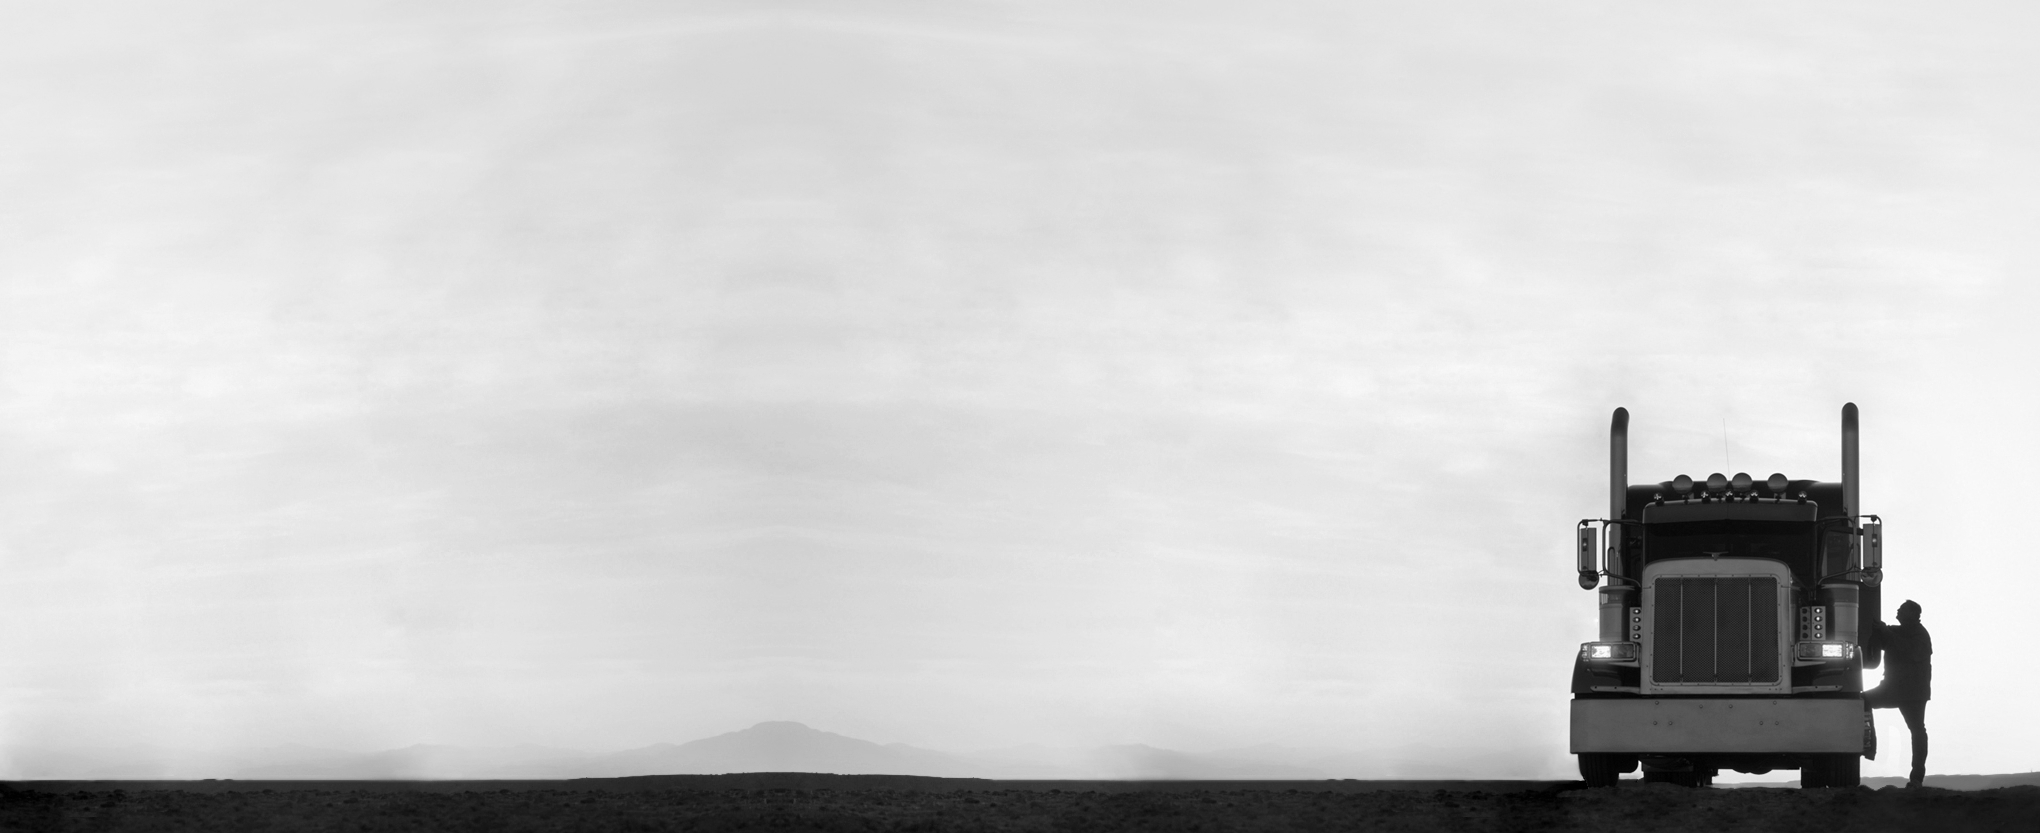
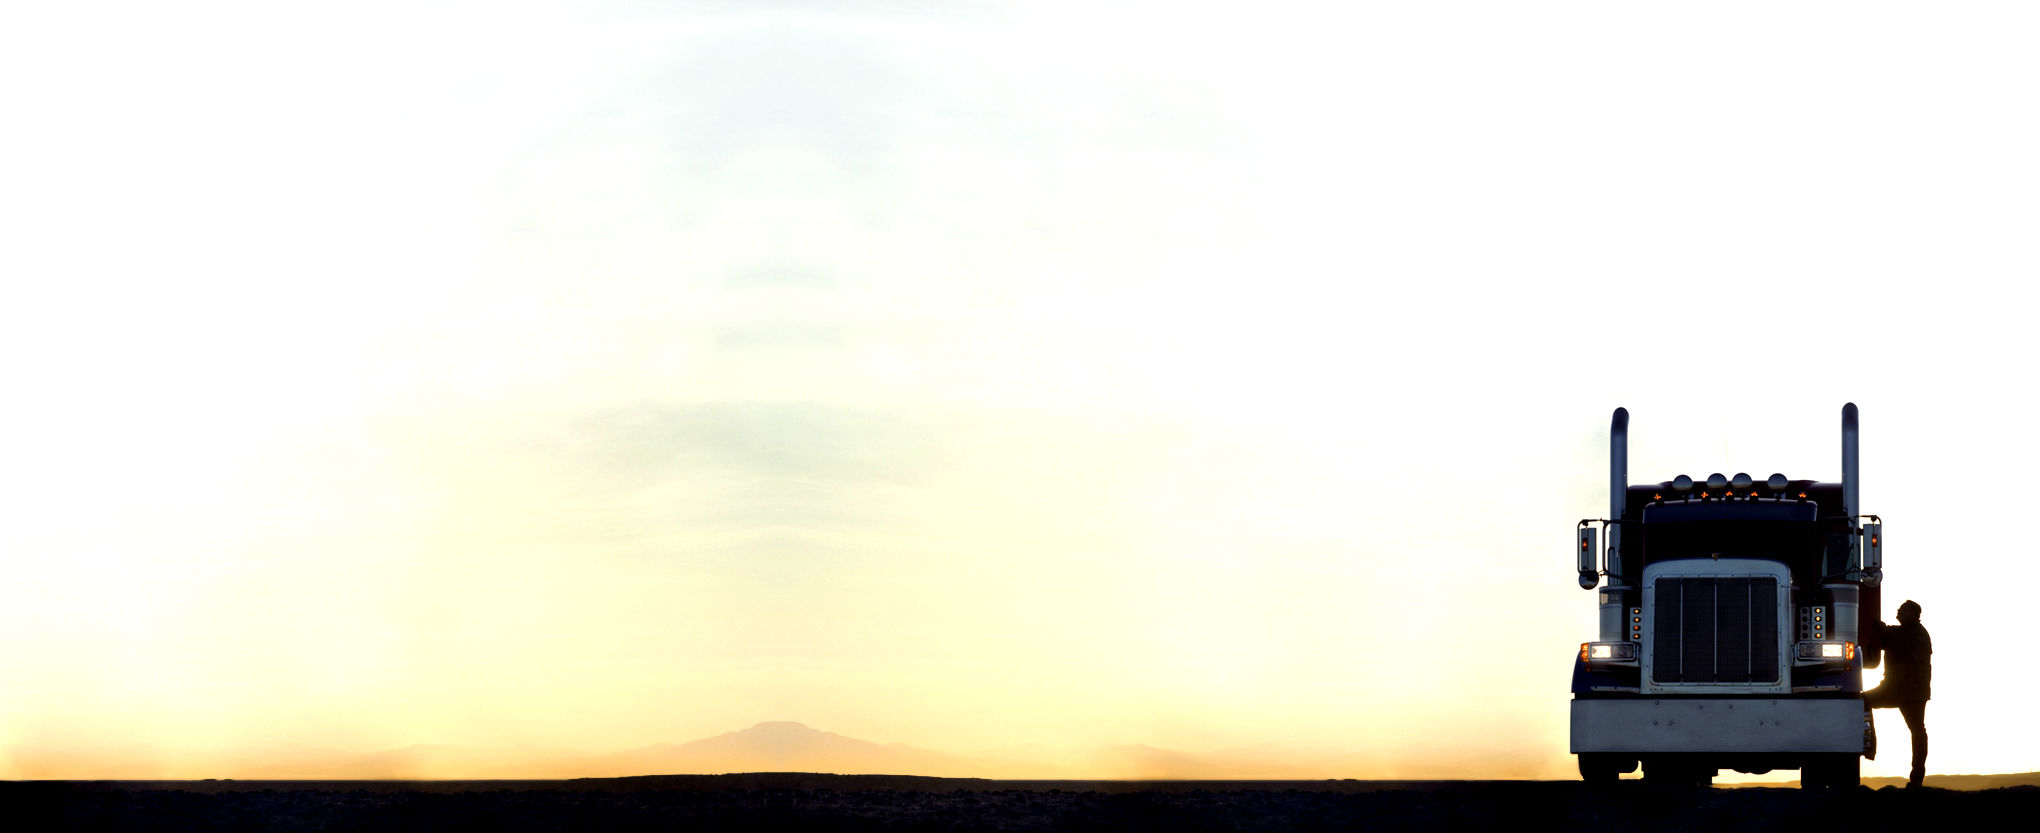
Before to Long

diff --git a/FASTPORT Marketing/carriers.html b/FASTPORT Marketing/carriers.html
@@ -31,9 +31,9 @@
             <!-- Collect the nav links, forms, and other content for toggling -->
             <div class="collapse navbar-collapse navbar-right navbar-ex1-collapse">
                 <ul class="nav navbar-nav">
-                    <li class="active"><a href="index.html">Truckers</a>
+                    <li><a href="index.html">Truckers</a>
                     </li>
-                    <li><a href="carriers.html">Carriers</a>
+                    <li class="active"><a href="carriers.html">Carriers</a>
                     </li>
                     <li><a href="https://app.fastport.com/Boards/jobmap.aspx">Jobs</a>
                     </li>
@@ -49,7 +49,7 @@
         </div>
         <!-- /.container -->
     </nav>
-    <div class="intro-header">
+    <div class="intro-header_crr">
         <div class="container">
             <div class="row">
                 <div class="col-lg-12">
@@ -58,14 +58,12 @@
                             FASTPORT's JobMaps&trade;
                         </h2>
                     </div>
-                    <p class="lead" style="color: Gray; text-align: left;">
-                        The right trucking job for you means more money, more home time, and more opportunity.
-                        FASTPORT's JobMaps&trade; is an entirely new way to match truckers to the right job, a
-                        difference that could mean $1,000,000 more over your career.
+                    <p class="lead" style="color: White; text-align: left;">
+                        Grow your fleet by attracting the right truckers. 
+                        The right trucker lives close to your freight lanes, meets your qualifications, and will stay for the long haul. 
+                        FASTPORT's JobMaps&trade; helps you find the right truckers and hire them quickly.
                     </p>
                     <ul class="list-inline intro-social-buttons">
-                        <li><a href="#jobs" class="btn btn-default btn-lg"><i class="fa fa-search fa-fw">
-                        </i><span class="network-name">SEARCH JobMaps&trade;</span></a></li>
                         <li><a href="#signupin" class="btn btn-default btn-lg">
                             <i class="fa fa-list-alt fa-fw"></i><span class="network-name">CREATE Account</span></a>
                         </li>
@@ -83,16 +81,16 @@
                     <div class="clearfix">
                     </div>
                     <h2 class="section-heading">
-                        What are JobMaps&trade;?</h2>
+                        What is JobMaps&trade; for Carriers?</h2>
                     <p class="lead">
-                        Searching for a trucking job with traditional classified job listings stinks. They
-                        are too hard to read, too hard to search, and too hard to compare. The perfect job
-                        for you could pass right by your front door and you'd never know.
+                        Traditional classified job listings stink for trucking. 
+                        No one can read thousands of poorly drafted, stale, puffing-filled postings to find the one position that fits them. 
+                        The experience is so disheartening that it chases good candidates away from trucking.
                     </p>
                 </div>
                 <div class="col-lg-5 col-lg-offset-2 col-sm-6">
                     <center>
-                        <img class="img-responsive" src="img/trk_02_jobmap.png" alt="" style="max-width: 350px;" />
+                        <img class="img-responsive" src="img/crr_02_jobmap.png" alt="" style="max-width: 350px;" />
                     </center>
                 </div>
             </div>
@@ -107,16 +105,15 @@
                     <div class="clearfix">
                     </div>
                     <h2 class="section-heading">
-                        Start by Searching</h2>
+                        Create Your JobMaps&trade;</h2>
                     <p class="lead">
-                        The first thing to do when you hit the JobMaps&trade; page is to enter your hometown and
-                        a little about you. Our map will then zoom to your location and drop map pins for
-                        JobMaps&trade; that fit you best. Even better, our system will also show JobMaps&trade; that
-                        pass right by you.</p>
+                        The first step is to create your JobMaps&trade;. 
+                        Enter your company information, your job benefits, and your requirements once. 
+                        Then draw your JobMap with just a few clicks.</p>
                 </div>
                 <div class="col-lg-5 col-sm-pull-6  col-sm-6">
                     <center>
-                        <img class="img-responsive" src="img/trk_04_search.png" alt="" style="max-width: 200px;" />
+                        <img class="img-responsive" src="img/crr_03_enterjob.png" alt="" style="max-width: 350px;" />
                     </center>
                 </div>
             </div>
@@ -131,15 +128,14 @@
                     <div class="clearfix">
                     </div>
                     <h2 class="section-heading">
-                        Easy to Read</h2>
+                        Upgrade Your JobMaps&trade;</h2>
                     <p class="lead">
-                        Since JobMaps&trade; is a "picture," you can tell which positions that look most interesting
-                        in just a glance. Also, the details of each JobMap are laid out exactly the same,
-                        so they are easy to read and easy to compare.</p>
+                        If you want your JobMaps&trade; to really stand-out, create a Custom Pin and distinguish your company from the standard pins on the map. 
+                        Or, you can also upload your logo to show right on your JobMaps&trade;.</p>
                 </div>
                 <div class="col-lg-5 col-lg-offset-2 col-sm-6">
                     <center>
-                        <img class="img-responsive" src="img/trk_06_read.png" alt="" style="max-width: 350px;" />
+                        <img class="img-responsive" src="img/crr_04_zoom.png" alt="" style="max-width: 350px;" />
                     </center>
                 </div>
             </div>
@@ -154,15 +150,15 @@
                     <div class="clearfix">
                     </div>
                     <h2 class="section-heading">
-                        Improve Your Results</h2>
+                        JobMaps&trade; on Your Website</h2>
                     <p class="lead">
-                        As you browse JobMaps&trade;, be sure the "thumbs-up" things you like, and to "check-off"
-                        requirements you satisfy (or not). We then use your feedback to show you even closer
-                        fits.</p>
+                        If you are really interested in looking awesome, you can place your JobMaps&trade; on your own company website. 
+                        With just one simple line of code, a trucker can browse every one of your current postings, and no one elses, increasing your chance to attract that right trucker. 
+                        If you are unhappy with your current website, we can even create one for you.</p>
                 </div>
                 <div class="col-lg-5 col-sm-pull-6  col-sm-6">
                     <center>
-                        <img class="img-responsive" src="img/trk_07_improve.png" alt="" style="max-width: 200px;" />
+                        <img class="img-responsive" src="img/crr_05_website.png" alt="" style="max-width: 350px;" />
                     </center>
                 </div>
             </div>
@@ -177,16 +173,18 @@
                     <div class="clearfix">
                     </div>
                     <h2 class="section-heading">
-                        Mark Favorite and Hide</h2>
+                        JobMaps&trade; Everywhere</h2>
                     <p class="lead">
-                        Better yet, mark the carriers and jobs you like best as "favorites" to save for
-                        later, and hide the carriers and jobs that do not interest you. All this allows
-                        you to get closer and closer to your best fit.
+                        To get even more exposure, you can send your JobMaps&trade; to other sites. 
+                        Do you like recruiting military veterans?  One click sends your postings to the U.S. 
+                        Chamber of Commerce's Hiring Our Heroes program, who use JobMaps&trade; as their posting technology. 
+                        Have you had good luck on Craigslist?  One click sends your jobs there. 
+                        Click here for a list of our favorite partner sites.
                     </p>
                 </div>
                 <div class="col-lg-5 col-lg-offset-2 col-sm-6">
                     <center>
-                        <img class="img-responsive" src="img/trk_08_favorite.png" alt="" style="max-width: 200px;" />
+                        <img class="img-responsive" src="img/crr_06_sites.png" alt="" style="max-width: 350px;" />
                     </center>
                 </div>
             </div>
@@ -201,16 +199,16 @@
                     <div class="clearfix">
                     </div>
                     <h2 class="section-heading">
-                        Read Reviews</h2>
+                        Manage JobMaps&trade; Leads</h2>
                     <p class="lead">
-                        When you get close to that perfect job, be sure to read reviews from past and current
-                        truckers to see their experiences to help you determine which carrier is right for
-                        you.
+                        When truckers find your job that is perfect for them, they can contact you in just a couple clicks. 
+                        That puts each recruit in the JobMaps&trade; funnel. Our funnel tracks your recruits process from the initial inquiry, 
+                        to the job offer, and through the application and onboarding process.
                     </p>
                 </div>
                 <div class="col-lg-5 col-sm-pull-6  col-sm-6">
                     <center>
-                        <img class="img-responsive" src="img/trk_06_read.png" alt="" style="max-width: 350px;" />
+                        <img class="img-responsive" src="img/crr_07_pipeline.png" alt="" style="max-width: 350px;" />
                     </center>
                 </div>
             </div>
@@ -225,14 +223,15 @@
                     <div class="clearfix">
                     </div>
                     <h2 class="section-heading">
-                        Inquire in One Click</h2>
+                        Improve Your JobMaps&trade;</h2>
                     <p class="lead">
-                        When you are ready to make the change, contact the carrier in just one click. You
-                        can either send them a quick email or give them a call.</p>
+                        To get even better results, JobMaps&trade; tracks specific metrics on your job postings. 
+                        You can see which postings are performing the best and which sources are getting the most recruits.
+                    </p>
                 </div>
                 <div class="col-lg-5 col-lg-offset-2 col-sm-6">
                     <center>
-                        <img class="img-responsive" src="img/trk_10_contact.png" alt="" style="max-width: 350px;" />
+                        <img class="img-responsive" src="img/crr_08_metrics.png" alt="" style="max-width: 350px;" />
                     </center>
                 </div>
             </div>
@@ -246,8 +245,6 @@
                 <div class="col-lg-12">
                     <center>
                         <ul class="list-inline intro-social-buttons">
-                            <li><a href="#jobs" class="btn btn-default btn-lg"><i class="fa fa-search fa-fw">
-                            </i><span class="network-name">SEARCH JobMaps&trade;</span></a></li>
                             <li><a href="#signupin" class="btn btn-default btn-lg">
                                 <i class="fa fa-list-alt fa-fw"></i><span class="network-name">CREATE Account</span></a>
                             </li>

diff --git a/FASTPORT Marketing/css/landing-page.css b/FASTPORT Marketing/css/landing-page.css
@@ -17,15 +17,25 @@ body, h1, h2, h3, h4, h5, h6 {
 	padding-top: 50px; /* If you're making other pages, make sure there is 50px of padding to make sure the navbar doesn't overlap content! */
 	padding-bottom: 50px;
 	color: #f8f8f8;
-	background: url(../img/trk_01_header.jpg) no-repeat bottom right;
+	background: url(../img/trk_01_header.jpg) no-repeat bottom center;
 	background-size: cover;
 	text-align: center;
+	height: 500px;
+}
+
+.intro-header_crr {
+	padding-top: 50px; /* If you're making other pages, make sure there is 50px of padding to make sure the navbar doesn't overlap content! */
+	padding-bottom: 50px;
+	color: #f8f8f8;
+	background: url(../img/crr_01_header.jpg) no-repeat bottom left;
+	background-size: cover;
+	text-align: center;
+	height: 500px;
 }
 
 .intro-message {
 	position: relative;
-	padding-top: 15%;
-	padding-bottom: 20%;
+	padding-top: 5%;
 }
 
 .intro-message > h1 {
@@ -100,6 +110,7 @@ body, h1, h2, h3, h4, h5, h6 {
 	color: #f8f8f8;
 	background: url(../img/banner-bg.jpg) no-repeat center center;
 	background-size: cover;
+	background-color: Black;
 }
 
 .banner h2 {

diff --git a/FASTPORT Marketing/css/bootstrap.css b/FASTPORT Marketing/css/bootstrap.css
@@ -2036,14 +2036,15 @@ fieldset[disabled] .btn {
   color: #333;
   background-color: #fff;
   border-color: #ccc;
+  opacity: .80;
 }
 .btn-default:hover,
 .btn-default:focus,
 .btn-default:active,
 .btn-default.active,
 .open .dropdown-toggle.btn-default {
-  color: #333;
-  background-color: #ebebeb;
+  color: white;
+  background-color: #1e679c;
   border-color: #adadad;
 }
 .btn-default:active,
@@ -3646,6 +3647,7 @@ select[multiple].input-group-sm > .input-group-btn > .btn {
   border-top-left-radius: 0;
   border-top-right-radius: 0;
 }
+
 .navbar {
   position: relative;
   min-height: 50px;
